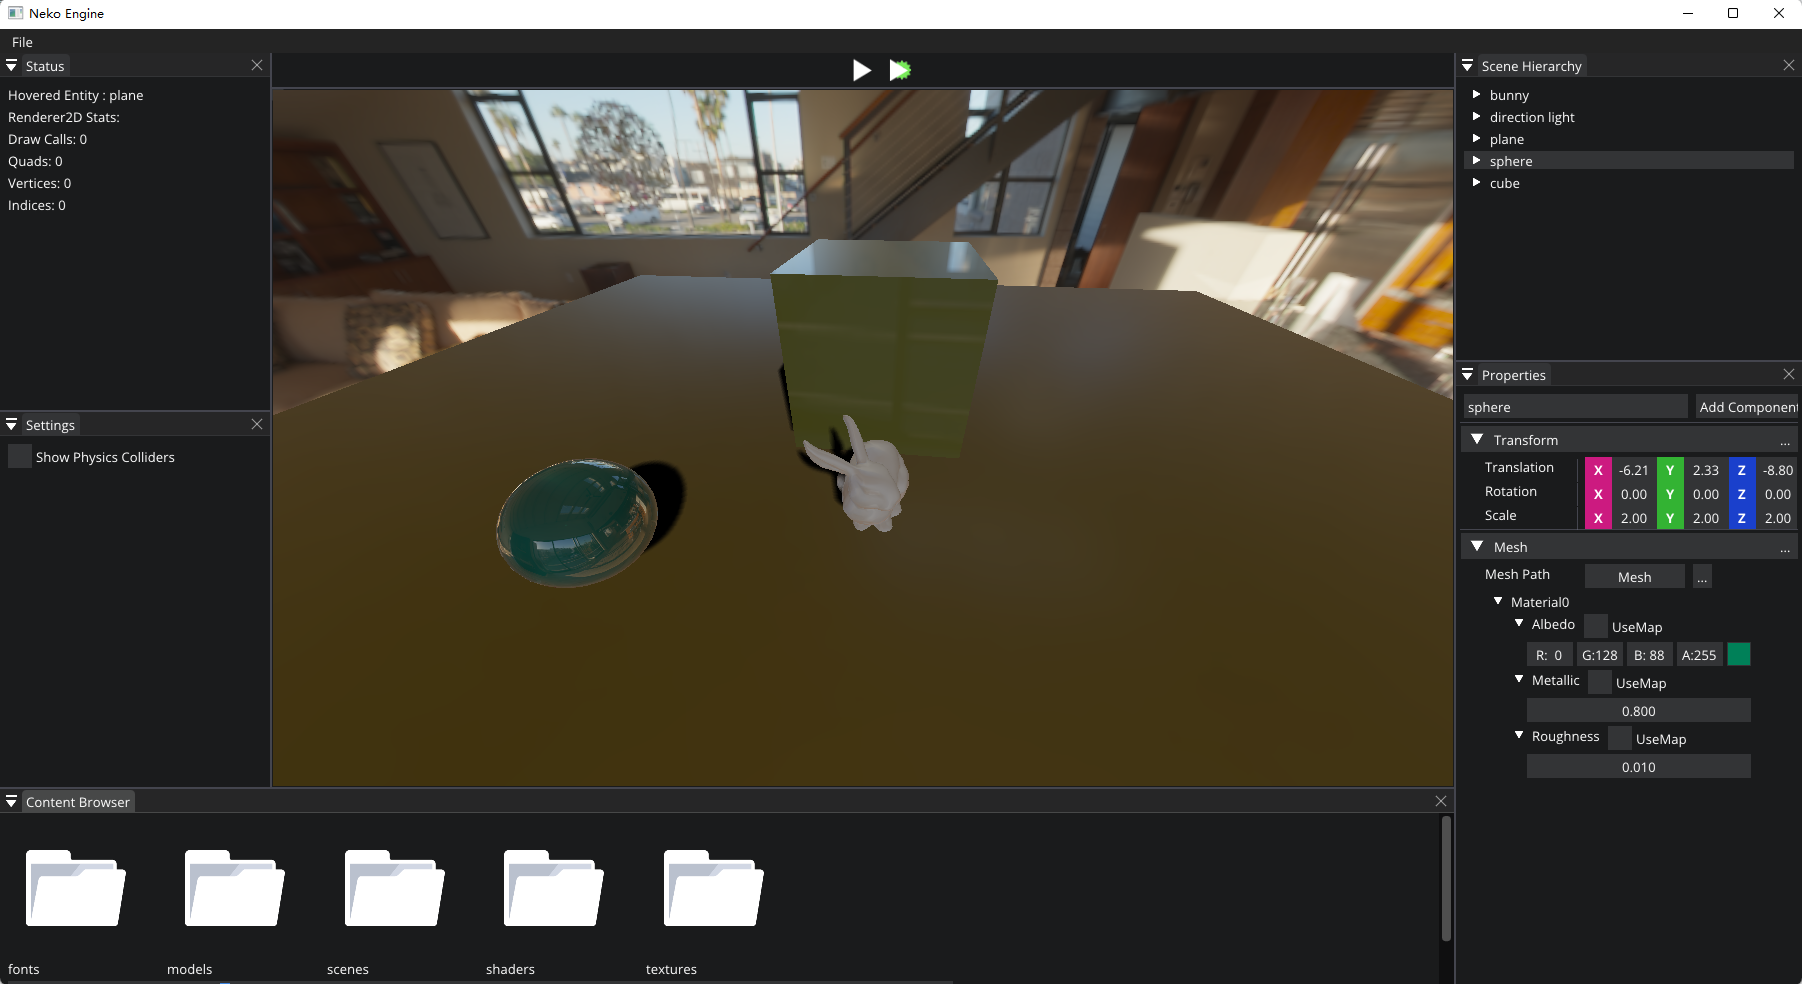
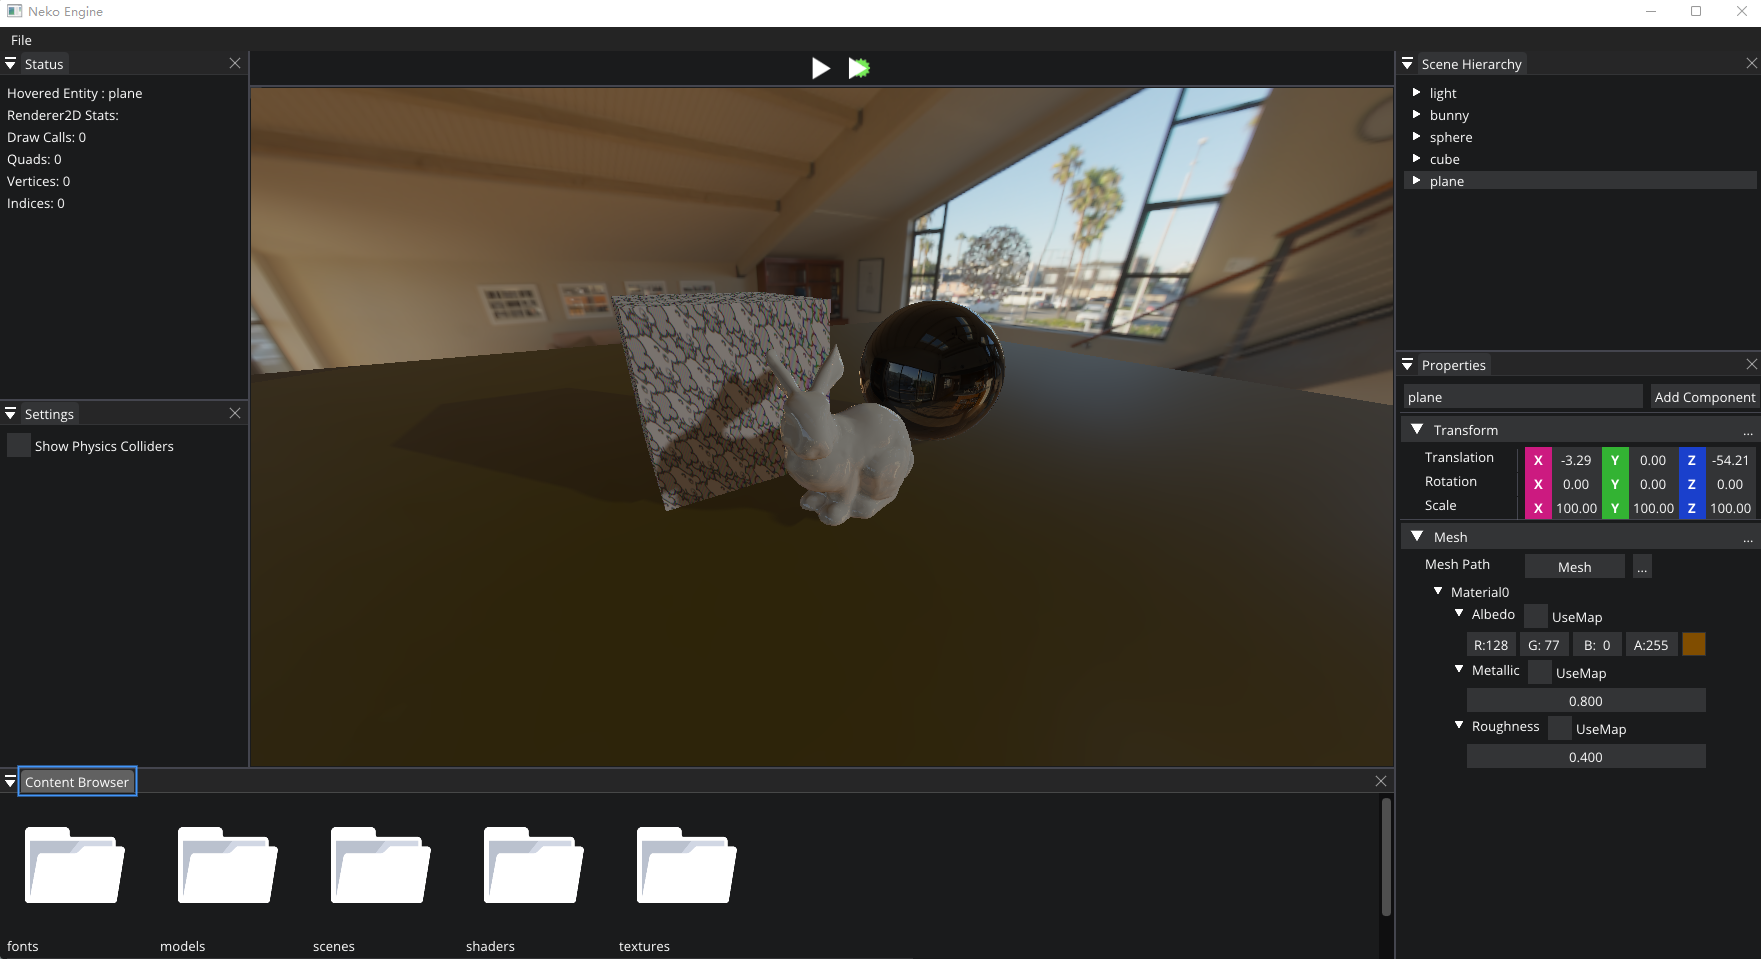
update readme

diff --git a/Neko/src/core/Renderer/Renderer3D.cpp b/Neko/src/core/Renderer/Renderer3D.cpp
@@ -79,8 +79,8 @@ namespace Neko {
 		};
 
 		s_data3d.textureCubeMap = TextureCubeMap::Create(cubeMapPaths);
-		// s_data3d.textureHdr = Texture2D::Create("assets/textures/hdr/newport_loft/Newport_Loft_Ref.hdr");
-		s_data3d.textureHdr = Texture2D::Create("assets/textures/hdr/snow_field.hdr");
+		s_data3d.textureHdr = Texture2D::Create("assets/textures/hdr/newport_loft/Newport_Loft_Ref.hdr");
+		// s_data3d.textureHdr = Texture2D::Create("assets/textures/hdr/snow_field.hdr");
 
 		FrameBufferDesc descShadow = { 1024, 1024, { FrameBufferTextureFormat::RGBA8 , FrameBufferTextureFormat::DEPTH } };
 		s_shadowFbo = FrameBuffer::Create(descShadow);

diff --git a/Neko/src/core/Renderer/Material.h b/Neko/src/core/Renderer/Material.h
@@ -48,7 +48,7 @@ namespace Neko {
 		std::shared_ptr<Texture2D> m_roughnessMap = TextureLibrary::GetInstance().Get("DefaultRoughness");
 
 		bool m_useAOMap = false;
-		float m_ao = 1.0f;
+		float m_ao = 0.4f;
 		std::shared_ptr<Texture2D> m_aoSprite = Texture2D::Create(1, 1);
 		std::shared_ptr<Texture2D> m_aoMap = TextureLibrary::GetInstance().Get("White");
 
